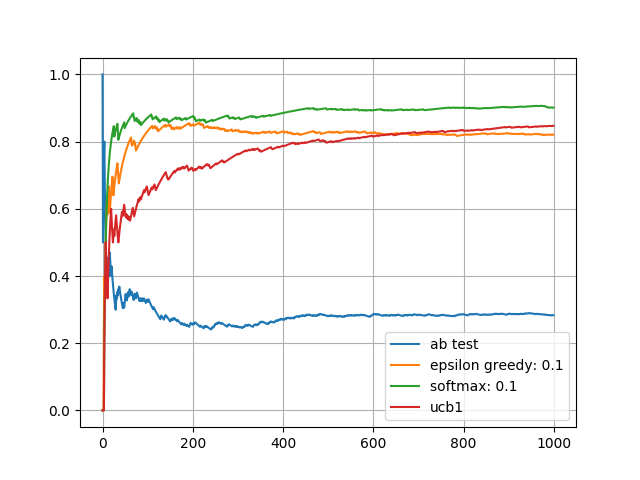
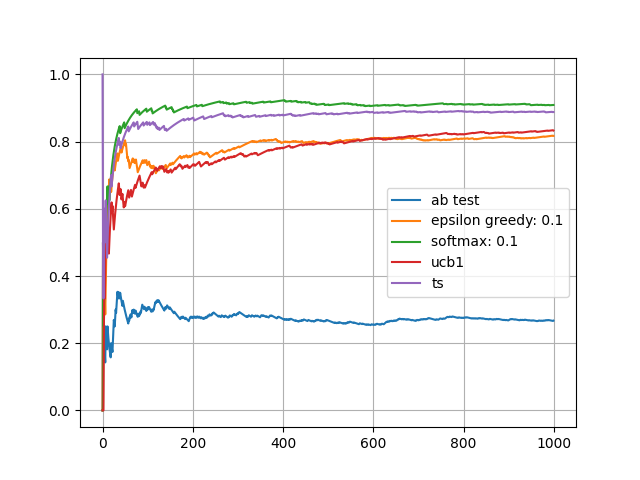
multi-armed bandit

Changed region(s): [[0.1562, 0.1562, 0.9062, 0.875], [0.8438, 0.5625, 0.875, 0.625], [0.8438, 0.8438, 0.875, 0.875]]

diff --git a/multi-armed bandit/algorithm.py b/multi-armed bandit/algorithm.py
@@ -1,9 +1,8 @@
-# -*- coding: utf-8 -*-
 import math
 import random
 
 
-class ABTest(object):
+class ABTest:
 
     def __init__(self, arm_n):
         self.arm_n = arm_n
@@ -21,7 +20,7 @@ class ABTest(object):
         return 'ABTest(arm_n)'.format(arm_n=self.arm_n)
 
 
-class EpsilonGreedy(object):
+class EpsilonGreedy:
     
     def __init__(self, arm_n, epsilon):
         self.arm_n = arm_n
@@ -51,7 +50,7 @@ class EpsilonGreedy(object):
         return 'EpsilonGreedy(arm_n, epsilon)'.format(arm_n=self.arm_n, epsilon=self.epsilon)
 
 
-class Softmax(object):
+class Softmax:
     
     def __init__(self, arm_n, temperature):
         self.arm_n = arm_n
@@ -63,11 +62,12 @@ class Softmax(object):
         for arm in range(self.arm_n):
             if self.counts[arm] == 0:
                 return arm
-                
-        s = sum([math.exp(v / self.temperature) for v in self.values])
-        probs = [math.exp(v / self.temperature) / s for v in self.values]
-        m = max(probs)
-        return probs.index(m)
+
+        weights = [math.exp(v / self.temperature) for v in self.values]
+        s = sum(weights)
+        weights = [weight / s for weight in weights]
+        r = random.choices(list(range(self.arm_n)), weights)[0]
+        return r
         
     def update(self, arm, reward):
         self.counts[arm] += 1
@@ -80,7 +80,7 @@ class Softmax(object):
         return 'Softmax(arm_n, temperature)'.format(arm_n=self.arm_n, temperature=self.temperature)
 
 
-class UCB1(object):
+class UCB1:
     
     def __init__(self, arm_n):
         self.arm_n = arm_n
@@ -107,3 +107,32 @@ class UCB1(object):
         
     def __repr__(self):
         return 'UCB1(arm_n)'.format(arm_n=self.arm_n)
+
+
+class TS:
+
+    def __init__(self, arm_n):
+        self.arm_n = arm_n
+        self.alphas = [1 for _ in range(self.arm_n)]
+        self.betas = [1 for _ in range(self.arm_n)]
+        self.counts = [0.0 for _ in range(self.arm_n)]
+
+    def pull(self):
+        for arm in range(self.arm_n):
+            if self.counts[arm] == 0:
+                return arm
+
+        thetas = [random.betavariate(alpha, beta) for alpha, beta in zip(self.alphas, self.betas)]
+        m = max(thetas)
+        return thetas.index(m)
+
+    def update(self, arm, reward):
+        self.counts[arm] += 1
+        self.alphas[arm] += reward
+        self.betas[arm] += 1 - reward
+
+    def __str__(self):
+        return 'ts'
+
+    def __repr(self):
+        return 'TS(arm_n)'.format(arm_n=self.arm_n)

diff --git a/multi-armed bandit/demo.py b/multi-armed bandit/demo.py
@@ -1,11 +1,11 @@
-# -*- coding: utf-8 -*-
 import matplotlib.pyplot as plt
 from arm import BernoulliArm
-from algorithm import ABTest, EpsilonGreedy, Softmax, UCB1
+from algorithm import ABTest, EpsilonGreedy, Softmax, UCB1, TS
 
 
 arms = [BernoulliArm(0.1), BernoulliArm(0.1), BernoulliArm(0.1), 
         BernoulliArm(0.1), BernoulliArm(0.9)]
+
 
 def algorithm_demo(arms, algorithm, episodes):
     r, s = 0.0, []
@@ -18,9 +18,6 @@ def algorithm_demo(arms, algorithm, episodes):
     return s
 
 
-########
-# demo #
-########
 def ab_test_demo():
     ab_test = ABTest(5)
     s = algorithm_demo(arms, ab_test, 1000)
@@ -36,7 +33,7 @@ def epsilon_greedy_demo():
 
 
 def all_demo():
-    algorithms = [ABTest(5), EpsilonGreedy(5, 0.1), Softmax(5, 0.1), UCB1(5)]
+    algorithms = [ABTest(5), EpsilonGreedy(5, 0.1), Softmax(5, 0.1), UCB1(5), TS(5)]
     ss = [algorithm_demo(arms, algorithm, 1000) for algorithm in algorithms]
-    [plt.plot(range(1000), ss[i], label=str(algorithms[i])) for i in range(4)]
+    [plt.plot(range(1000), ss[i], label=str(algorithms[i])) for i in range(5)]
     plt.legend(), plt.grid(), plt.show()

diff --git a/multi-armed bandit/arm.py b/multi-armed bandit/arm.py
@@ -1,14 +1,10 @@
-# -*- coding: utf-8 -*-
 import random
 
 
-class BernoulliArm(object):
+class BernoulliArm:
     
     def __init__(self, p):
         self.p = p
         
     def step(self):
-        if random.random() < self.p:
-            return 1.0
-        else:
-            return 0.0
+        return 1.0 if random.random() < self.p else 0.0
